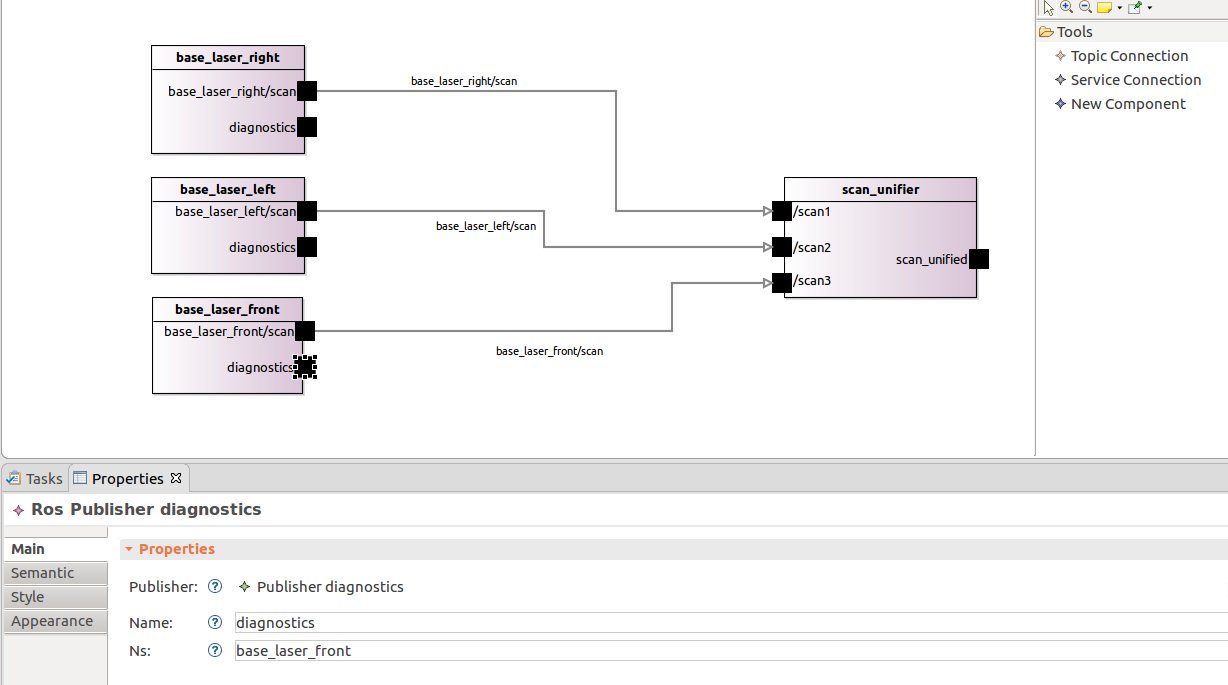
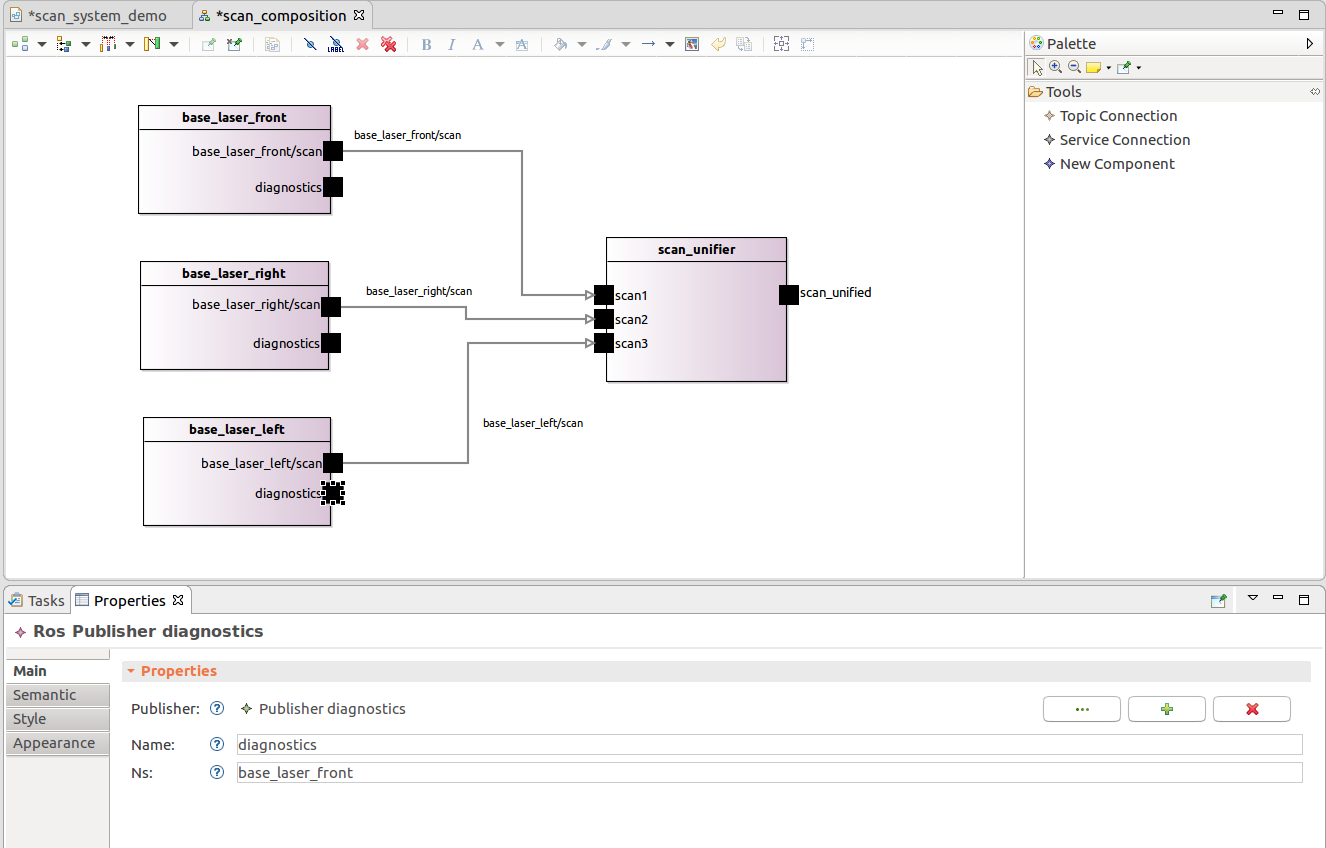
upgrade documentation to shows sub-systems composition

diff --git a/plugins/de.fraunhofer.ipa.rossystem.editor/src/rossystem/presentation/RossystemModelWizard.java b/plugins/de.fraunhofer.ipa.rossystem.editor/src/rossystem/presentation/RossystemModelWizard.java
@@ -222,23 +222,24 @@ public class RossystemModelWizard extends Wizard implements INewWizard {
 							StringBuilder model_output = new StringBuilder();
 							resource.getContents().clear();
 							model_output.append("RosSystem { Name '"+ModelName+"' ");
-							int cout = InputFiles.length;
-							if (cout > 0) {
-								model_output.append(" RosComponents ( \n    ");
-								for (File file:InputFiles) {
-									Scanner in = new Scanner(new FileReader(file.getAbsolutePath()));
-									while (in.hasNext()) {
-										model_output.append(in.next());
-										model_output.append(" ");
-									}
-									in.close();
-									cout--;
-									if (cout > 0) {
-										model_output.append(",\n    ");
-									} else {
-										model_output.append(")");
-									}
-							}}
+							if (!(InputFiles==null)){
+								int cout = InputFiles.length;
+								if (cout > 0) {
+									model_output.append(" RosComponents ( \n    ");
+									for (File file:InputFiles) {
+										Scanner in = new Scanner(new FileReader(file.getAbsolutePath()));
+										while (in.hasNext()) {
+											model_output.append(in.next());
+											model_output.append(" ");
+										}
+										in.close();
+										cout--;
+										if (cout > 0) {
+											model_output.append(",\n    ");
+										} else {
+											model_output.append(")");
+										}
+								}}}
 							model_output.append("\n}");
 							byte[] bytes = model_output.toString().getBytes();
 							InputStream source = new ByteArrayInputStream(bytes);
@@ -744,7 +745,7 @@ public class RossystemModelWizard extends Wizard implements INewWizard {
 	    private Composite container;
 	    private Text locationPathField;
 		private Button browseButton;
-		private File[] selectedFiles;
+		private File[] selectedFiles = null;
 
 		protected SelectinputFile(String pageId) {
 			super(pageId);
@@ -798,7 +799,8 @@ public class RossystemModelWizard extends Wizard implements INewWizard {
 					        selectedFiles[i] = new File(filenames[i]);
 					    }
 					}
-					if (filenames == null) return;
+					if (filenames == null) 
+						return;
 					locationPathField.setText(filenames[0].toString());
 				}
 
@@ -869,8 +871,8 @@ public class RossystemModelWizard extends Wizard implements INewWizard {
 		initialObjectCreationPage.setDescription(RossystemEditorPlugin.INSTANCE.getString("_UI_Wizard_initial_object_description"));
 		//addPage(initialObjectCreationPage);
 		getInputFileCreationPage = new SelectinputFile("Whatever4");
-		getInputFileCreationPage.setTitle("Select ROS components (only if the system is a composition of subsystems)");
-		getInputFileCreationPage.setDescription("Select ROS components");
+		getInputFileCreationPage.setTitle("Select ROS components");
+		getInputFileCreationPage.setDescription("Optional step, only required if the new system is a composition of subsystems");
 		addPage(getInputFileCreationPage);
 	}
 

diff --git a/plugins/de.fraunhofer.ipa.componentInterface.editor/src/componentInterface/presentation/ComponentInterfaceModelWizardOnlyRosInputModel.java b/plugins/de.fraunhofer.ipa.componentInterface.editor/src/componentInterface/presentation/ComponentInterfaceModelWizardOnlyRosInputModel.java
@@ -76,6 +76,7 @@ public class ComponentInterfaceModelWizardOnlyRosInputModel extends Wizard imple
 	public FileDialog fDialog;
 	public String ComponentName;
 	public String ComponentNameSpace;
+	public String NameSpaceInterfaces;
 	//public ComponentInterface CI_input;
 	public IProject project;
 	public EObject eobject;
@@ -136,30 +137,33 @@ public class ComponentInterfaceModelWizardOnlyRosInputModel extends Wizard imple
 										for (EObject rossystem:view.getModels()) {
 											for (ComponentInterface component:((RosSystem) rossystem).getRosComponent()) {
 												if (component.getName().equalsIgnoreCase(ComponentName)) {
+													NameSpaceInterfaces = "";
+													if (!(ComponentNameSpace.length()==0))
+														NameSpaceInterfaces = ComponentNameSpace + "/";
 													for (Publisher pub:pubs) {
 														RosPublisher rospub = new RosPublisherImpl();
-														rospub.setName(ComponentNameSpace+"/"+pub.getName());
+														rospub.setName(NameSpaceInterfaces+pub.getName());
 														rospub.setNs(ComponentNameSpace);
 														rospub.setPublisher(pub);
 														component.getRospublisher().add(rospub);
 													}
 													for (Subscriber sub:subs) {
 														RosSubscriber rossub = new RosSubscriberImpl();
-														rossub.setName(ComponentNameSpace+"/"+sub.getName());
+														rossub.setName(NameSpaceInterfaces+sub.getName());
 														rossub.setNs(ComponentNameSpace);
 														rossub.setSubscriber(sub);
 														component.getRossubscriber().add(rossub);
 													}
 													for (ServiceClient scl:scls) {
 														RosServiceClient rosscl = new RosServiceClientImpl();
-														rosscl.setName(ComponentNameSpace+"/"+scl.getName());
+														rosscl.setName(NameSpaceInterfaces+scl.getName());
 														rosscl.setNs(ComponentNameSpace);
 														rosscl.setSrvclient(scl);
 														component.getRosserviceclient().add(rosscl);
 													}
 													for (ServiceServer ssr:ssrs) {
 														RosServiceServer rosssr = new RosServiceServerImpl();
-														rosssr.setName(ComponentNameSpace+"/"+ssr.getName());
+														rosssr.setName(NameSpaceInterfaces+ssr.getName());
 														rosssr.setNs(ComponentNameSpace);
 														rosssr.setSrvserver(ssr);
 														component.getRosserviceserver().add(rosssr);

diff --git a/docu/NewSystem.md b/docu/NewSystem.md
@@ -12,11 +12,11 @@ To create a new system you have to press the button "Add new Ros System"
 
 ![alt text](images/add_new_system.png)
 
-A dialog will be open and ask you to select a folder to contain your new model, you can just select the "scan_system_demo" folder.
+A dialog will be open and ask you to select a folder to contain your new model, you can just select the "scan_system_demo" folder. Give a name to your new system and press "Next > ", the new dialog window will ask you for a Ros Components, this step is not required, you can just press "Finish".
 
 To modify easily the model you can use a Sirius representation. Open the file representation.aird with the Aird editor and in the menu representations choose the "RosSystem" option and press "New.." then choose the Ros System entity of your "*.rossystem" model and press finish.
 
-A new window will appear where you can choose and add elements by selecting them on the side toolbar and the properties view. With the toolbar you can add a new component. Press the option "New component", a window will be openned and ask for a new name for you component
+A new window will appear where you can choose and add elements by selecting them on the side toolbar and the properties view. With the toolbar you can add a new component. Press the option "New component", a window will be openned and ask for a new name for you component:
 
 ![alt text](images/new_component_side_bar.png)
 
@@ -100,4 +100,32 @@ These changes should change the roslaunch file to:
 </launch>
 ```
 
-Tbd: save and create a new system from the ComponentInterface generated 
+The next part of this tutorial shows the creation of a new System by the composition of sub-systems.
+
+To create a new system you have to press the button "Add new Ros System" and a dialog will be open and ask you to select a folder to contain your new model, you can just select the "scan_system_demo" folder. Give a name to your new system and press "Next > ", the new dialog window will ask you for a Ros Components press "Browse.." and select the componentinterface autogenerated by the previous example (i.e. scan_system_demo/components/scan_composition.componentinterface).
+
+To modify easily the model you can use a Sirius representation. Open the file representation.aird with the Aird editor and in the menu representations choose the "RosSystem" option and press "New.." then choose the Ros System entity of your "*.rossystem" model and press finish.
+
+A new window will appear where you can choose and add elements by selecting them on the side toolbar and the properties view. 
+
+![alt text](images/diagnostics_system.png)
+
+The new system already contains the previous system model as a single block and can be composed by adding new components, for example you can create a new component with the following configuration:
+
+```
+Name: diagnostics
+NameSpace: 
+RosModel: rosnodes/diagnostic_aggregator.ros
+```
+And join the diagnostics interfaces with a connection. The resulted launch file will include the previous generated launch file and the new imported node.
+
+![alt text](images/diagnostics_system_complete.png)
+
+```
+<?xml version="1.0"?>
+<launch>
+
+...
+
+</launch>
+```
